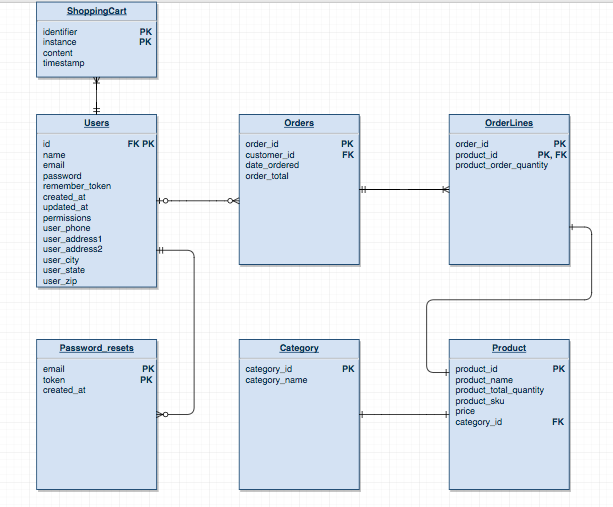
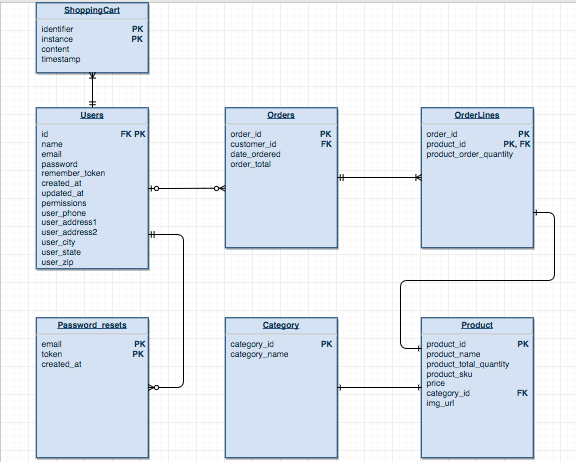
forgot phone on registration | fix auth controller| update erd

Changed region(s): [[0.0312, 0.0, 0.9688, 1.0], [0.0312, 0.6667, 0.3125, 1.0]]

diff --git a/resources/views/profile.blade.php b/resources/views/profile.blade.php
@@ -1,23 +1,31 @@
 @extends('layouts.app')
 
 @section('content')
-    <div class="container">
-        <h2>Welcome {{ Auth::user()->name }}, to your profile!</h2>
-	<table class="table">
-		<td>Your information:</td><td></td>
-		<tr><td>Email: </td><td>{{ Auth::user()->email }}</td>
-		<tr><td>Phone: </td><td>{{ Auth::user()->phone }}</td>
-		<tr><td>Address: </td><td>{{ Auth::user()->address1 }}</td>
-		<tr><td>City: </td><td>{{ Auth::user()->city }}</td>
-		<tr><td>State: </td><td>{{ Auth::user()->state }}</td>
-		<tr><td>Zip Code: </td><td>{{ Auth::user()->zip }}</td>
-	</table>
-	<?php 
-		$user = Auth::user()->id;
-	?>
-	<a href="{{ route('editProfile.edit', [$user]) }}">
-        	<button class="btn btn-success">Edit Profile Information</button>
-        </a>
-    </div>
+	<div class="container">
+		<div class="row">
+			<div class="col-md-10 col-md-offset-1">
+				<div class="panel panel-default">
+					<div class="panel-heading">Profile:</div>
+					<div class="panel-body">
+						<h2>Welcome {{ Auth::user()->name }}, to your profile!</h2>
+						<table class="table">
+							<td>Your information:</td><td></td>
+							<tr><td>Email: </td><td>{{ Auth::user()->email }}</td>
+							<tr><td>Phone: </td><td>{{ Auth::user()->phone }}</td>
+							<tr><td>Address: </td><td>{{ Auth::user()->address1 }}</td>
+							<tr><td>City: </td><td>{{ Auth::user()->city }}</td>
+							<tr><td>State: </td><td>{{ Auth::user()->state }}</td>
+							<tr><td>Zip Code: </td><td>{{ Auth::user()->zip }}</td>
+						</table>
+						<?php
+							$user = Auth::user()->id;
+						?>
+						<a href="{{ route('editProfile.edit', [$user]) }}">
+							<button class="btn btn-success">Edit Profile Information</button>
+						</a>
+					</div>
+			</div>
+		</div>
+	</div>
 
 @endsection

diff --git a/app/Http/Controllers/Auth/AuthController.php b/app/Http/Controllers/Auth/AuthController.php
@@ -47,7 +47,7 @@ class AuthController extends Controller
             'password' => 'required|confirmed|min:6',
             'phone' => 'required',
             'address1' => 'required',
-            'address2' => 'required',
+            'address2' => 'max:50',
             'city' => 'required',
             'state' => 'required',
             'zip' => 'required',
@@ -66,12 +66,12 @@ class AuthController extends Controller
             'name' => $data['name'],
             'email' => $data['email'],
             'password' => bcrypt($data['password']),
-            'phone' => 'required',
-            'address1' => 'required',
-            'address2' => 'max:50',
-            'city' => 'required',
-            'state' => 'required',
-            'zip' => 'required',
+            'phone' => $data['phone'],
+            'address1' => $data['address1'],
+            'address2' => $data['address2'],
+            'city' => $data['city'],
+            'state' => $data['state'],
+            'zip' => $data['zip'],
         ]);
     }
 }

diff --git a/resources/views/auth/register.blade.php b/resources/views/auth/register.blade.php
@@ -66,6 +66,20 @@
                             </div>
                         </div>
 
+                        <div class="form-group{{ $errors->has('phone') ? ' has-error' : '' }}">
+                            <label for="phone" class="col-md-4 control-label">Phone</label>
+
+                            <div class="col-md-6">
+                                <input id="phone" type="text" class="form-control" name="phone">
+
+                                @if ($errors->has('phone'))
+                                    <span class="help-block">
+                                        <strong>{{ $errors->first('phone') }}</strong>
+                                    </span>
+                                @endif
+                            </div>
+                        </div>
+
                         <div class="form-group{{ $errors->has('address1') ? ' has-error' : '' }}">
                             <label for="address1" class="col-md-4 control-label">Address</label>
 
